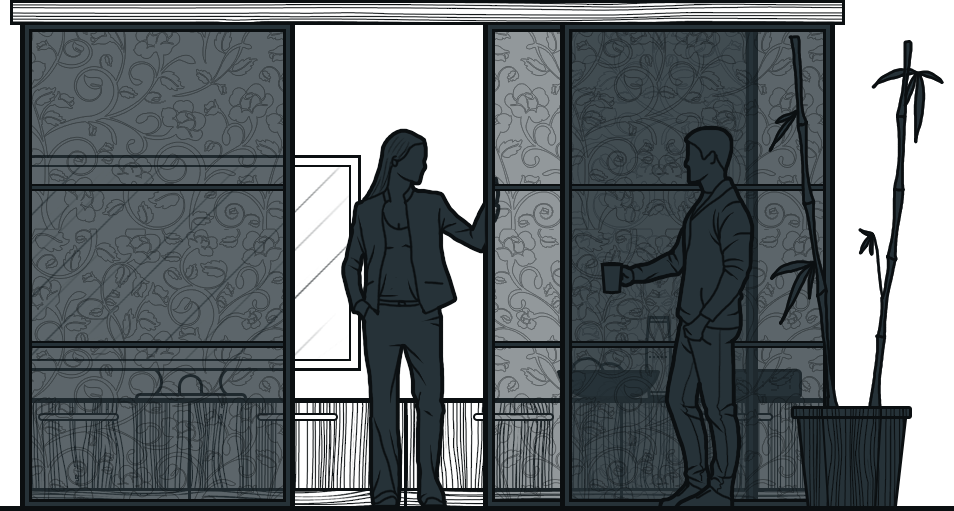
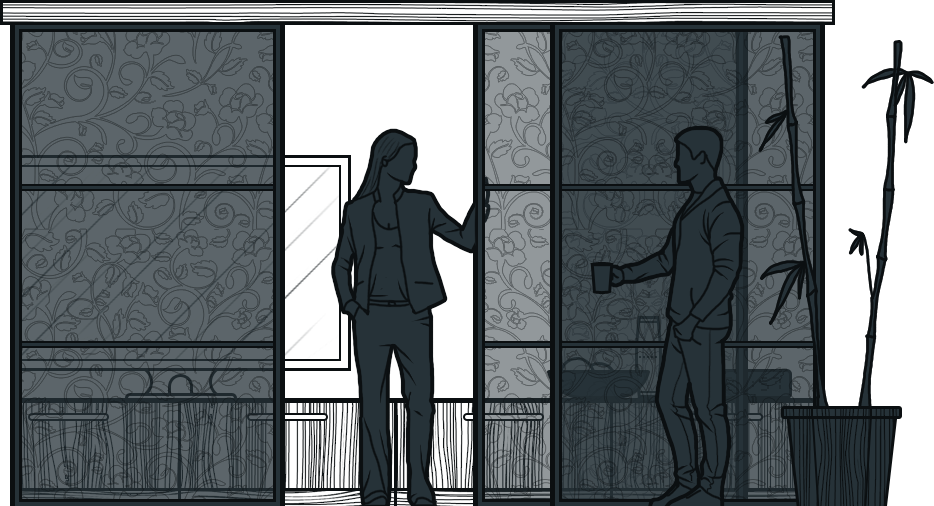
+

Changed region(s): [[0.0, 0.0, 1.0, 1.0], [0.4347, 0.2668, 0.4657, 0.2964], [0.4036, 0.2372, 0.4347, 0.2668]]

diff --git a/f/css/main.less b/f/css/main.less
@@ -2329,14 +2329,14 @@ transform 500ms cubic-bezier(0, 0, 0.001, 1);
   bottom: 100px;
 }
 .sections-slider__item img {
-  bottom: 150px;
+  bottom: 155px;
   position: absolute;
   left: 0;
   right: 0;
   margin: 0 auto;
 }
 .sections-slider_full .sections-slider__item img {
-  bottom: 100px;
+  bottom: 105px;
 }
 .sections-slider__item img,
 .sections-slider__item .sections-slider__link {

diff --git a/f/css/main.css b/f/css/main.css
@@ -2305,14 +2305,14 @@ a:hover .icon-consult {
   bottom: 100px;
 }
 .sections-slider__item img {
-  bottom: 150px;
+  bottom: 155px;
   position: absolute;
   left: 0;
   right: 0;
   margin: 0 auto;
 }
 .sections-slider_full .sections-slider__item img {
-  bottom: 100px;
+  bottom: 105px;
 }
 .sections-slider__item img,
 .sections-slider__item .sections-slider__link {
